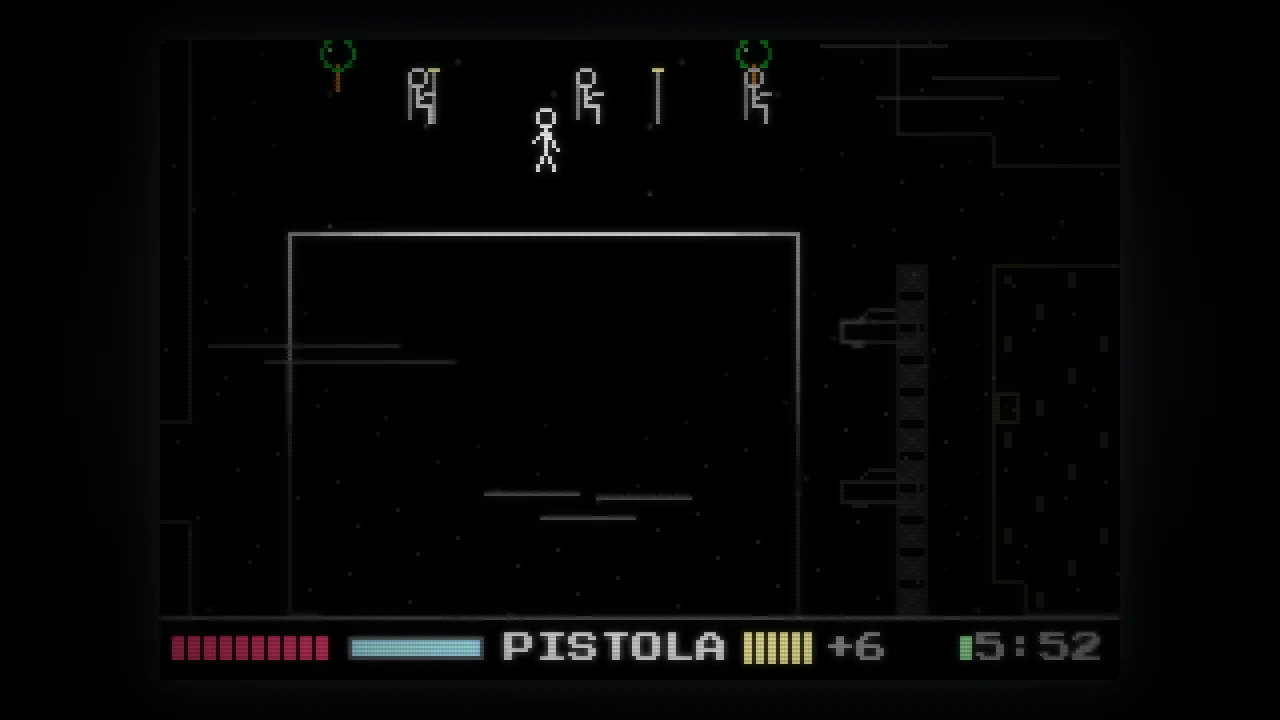
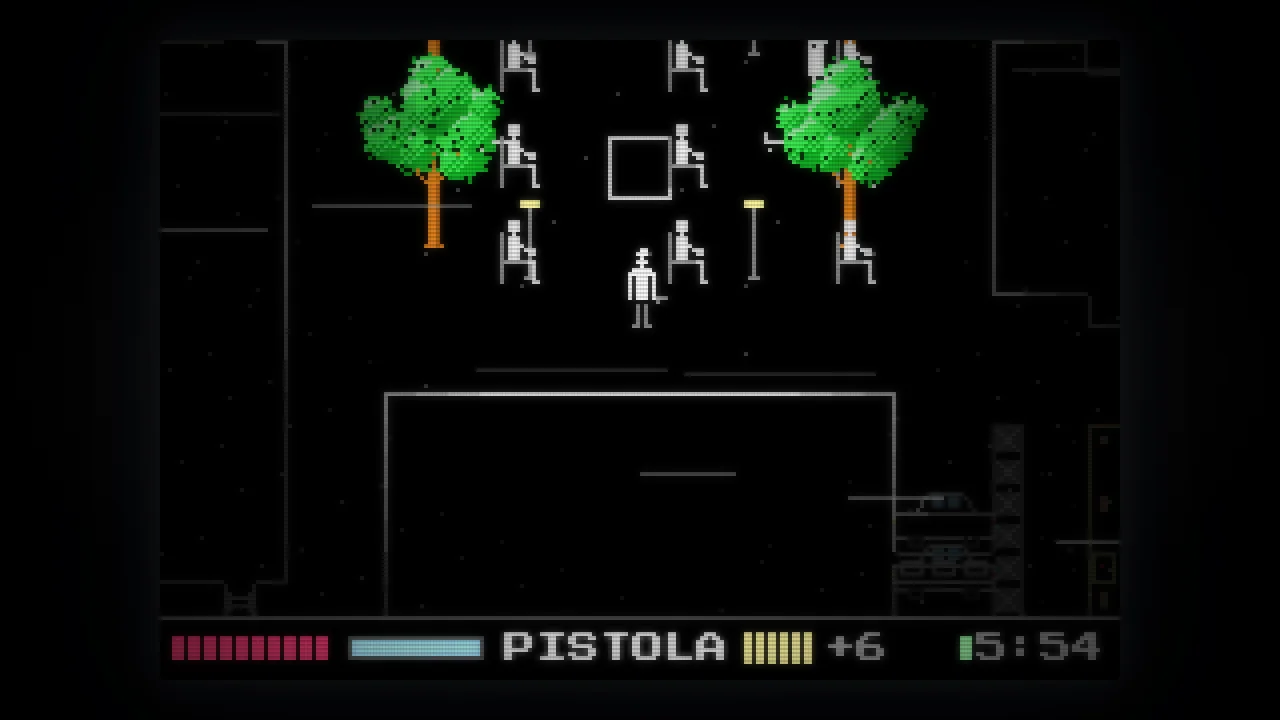
Capturas al dia (2): la carta de Mercadito con un restaurante real, jlptest con sus cifras de hoy y una tarjeta de repaso, La procesion con el juego del 18-oct
Daily Challenge espera al despliegue de la tanda de octubre (Railway sin builds).

diff --git a/src/lib/apps.ts b/src/lib/apps.ts
@@ -99,9 +99,11 @@ export const APPS: App[] = [
       en: "Vocabulary, grammar, readings and mini-tests with spaced repetition.",
     },
     datos: [
-      { valor: "7 957", etiqueta: { es: "palabras", en: "words" } },
-      { valor: "846", etiqueta: { es: "gramáticas", en: "grammar points" } },
-      { valor: "619", etiqueta: { es: "unidades", en: "units" } },
+      // Lo que dice la portada de jlptest.org el 2026-10-20 (VOCABULARIO,
+      // GRAMATICA y UNIDADES de su lib/contenido.ts).
+      { valor: "9 452", etiqueta: { es: "palabras", en: "words" } },
+      { valor: "864", etiqueta: { es: "gramáticas", en: "grammar points" } },
+      { valor: "600", etiqueta: { es: "unidades", en: "units" } },
     ],
     etiquetas: { es: ["Japonés", "Android", "Web"], en: ["Japanese", "Android", "Web"] },
     pantallas: [

diff --git a/docs/DECISIONES.md b/docs/DECISIONES.md
@@ -272,3 +272,29 @@ dice su texto. Ventas se queda con la del 23-sep: hoy la demo no tiene ventas
 y saldría vacía. Las de War
 Zone salen del propio juego (`window.TH` en un Chrome sin ventana: menú,
 campaña, castillo con su cráter, arsenal, pasa el teléfono y vector).
+
+## 2026-10-20 — Capturas al día (2)
+
+Adrián vio algunas viejas. Lo que cambió:
+
+- **Mercadito.** La carta de la demo salía con letras en lugar de fotos; ahora
+  es la de Amazónico (Adrián dio permiso de usar cualquier restaurante), con
+  su logo, la promoción del día y «Más vendidos» con fotos. Su vista
+  (`POST /api/menu/<id>/evento`) se contestó en local: el piloto no la contó.
+  Las del panel siguen siendo de la demo; la interfaz no ha cambiado.
+- **jlptest.** Las cinco, al día: la portada dice 9 452 palabras y 864 puntos
+  de gramática, y las noticias son las de hoy. «Repaso espaciado» enseñaba la
+  pantalla vacía («Nada vencido»), porque la sesión anónima no tiene
+  historial. Ahora es una tarjeta de práctica, con «No la sabía / La sabía» y
+  «las que falles vuelven antes de cerrar la sesión». El progreso que manda se
+  contestó en local. Las cifras de la ficha pasan a 9 452 / 864 / 600, las de
+  su `lib/contenido.ts` en producción.
+- **La procesión de los dormidos.** Las seis, rehechas con el juego del 18-oct:
+  - el menú nuevo (idioma, capítulos);
+  - los sprites de tres tonos y los árboles;
+  - los nombres nuevos;
+  - la frase completa del boulevard.
+- **War Zone.** Se quedan: desde el 13-oct sólo cambió lo de los anuncios.
+- **Daily Challenge.** Queda pendiente. Railway tenía caída de builds, y el
+  sitio todavía no enseña la tanda de octubre (cinco juegos nuevos). Además,
+  `dailychallenge-juego` era copia de la portada, no de una partida.
